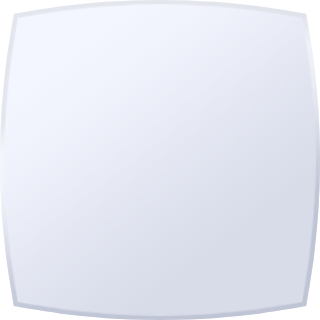
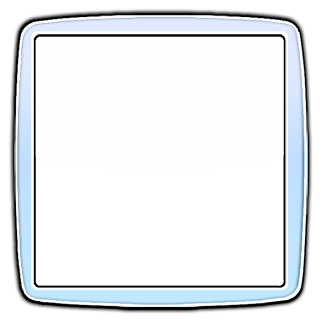
Change menu_icon_bg

diff --git a/src/ui/page/menu.rs b/src/ui/page/menu.rs
@@ -100,8 +100,8 @@ impl<'a> MenuPage<'a> {
                 .opacity(0.6),
             widget::container(
                 widget::image(cache::get_cached_image_handle(&icon_path).unwrap())
-                    .height(size)
-                    .width(size)
+                    .height(size * 0.85)
+                    .width(size * 0.85)
             )
             .center(size * 1.3),
         ]